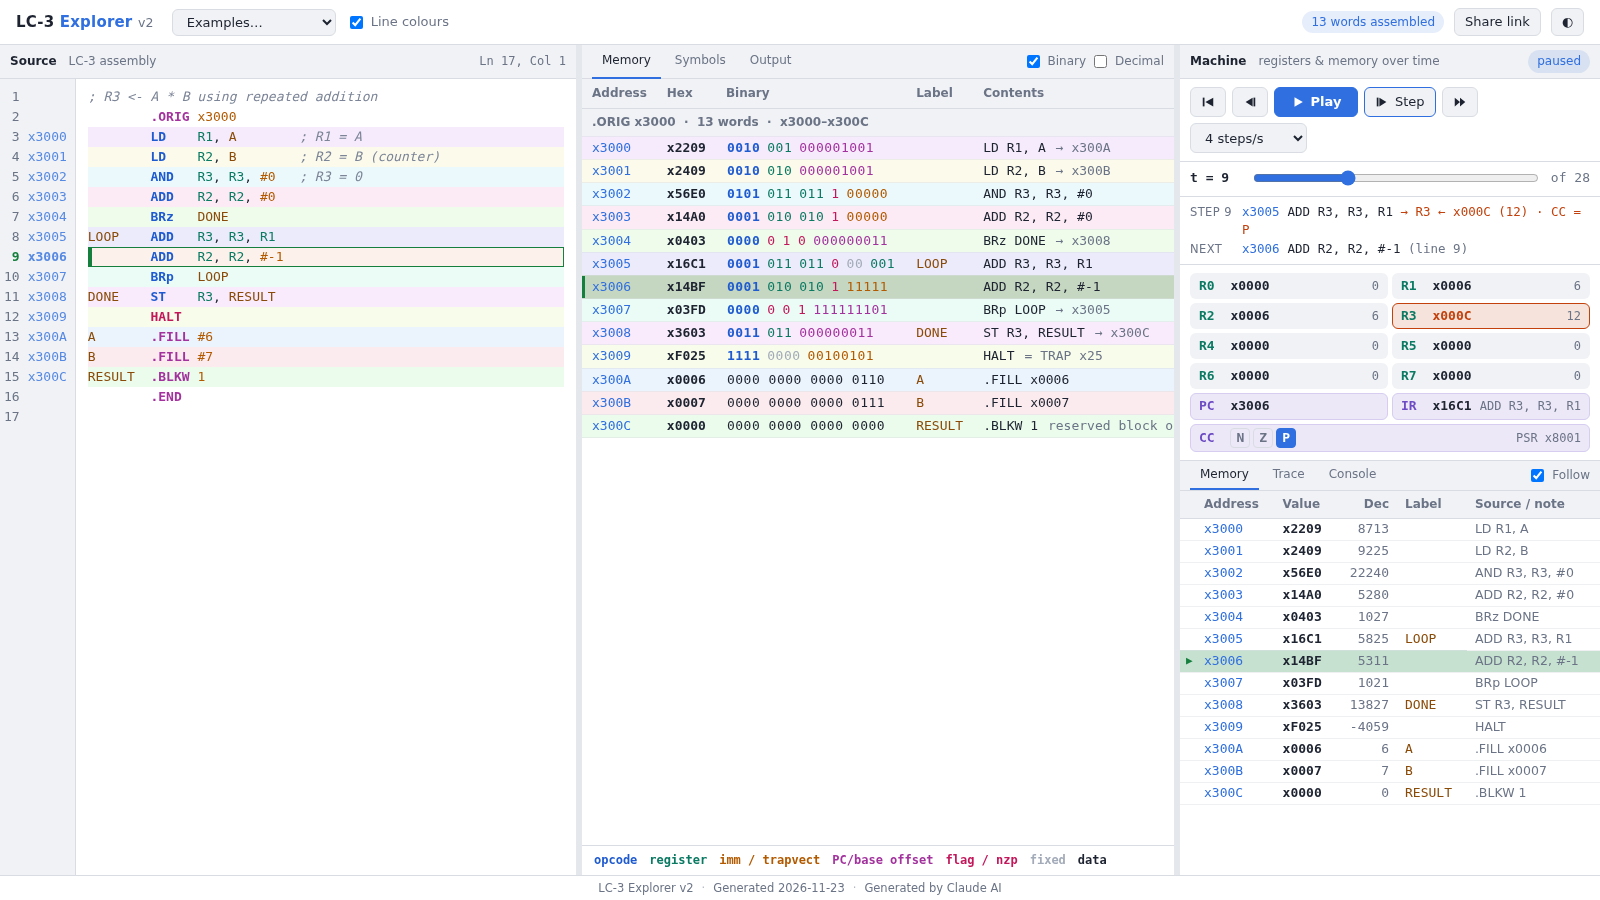
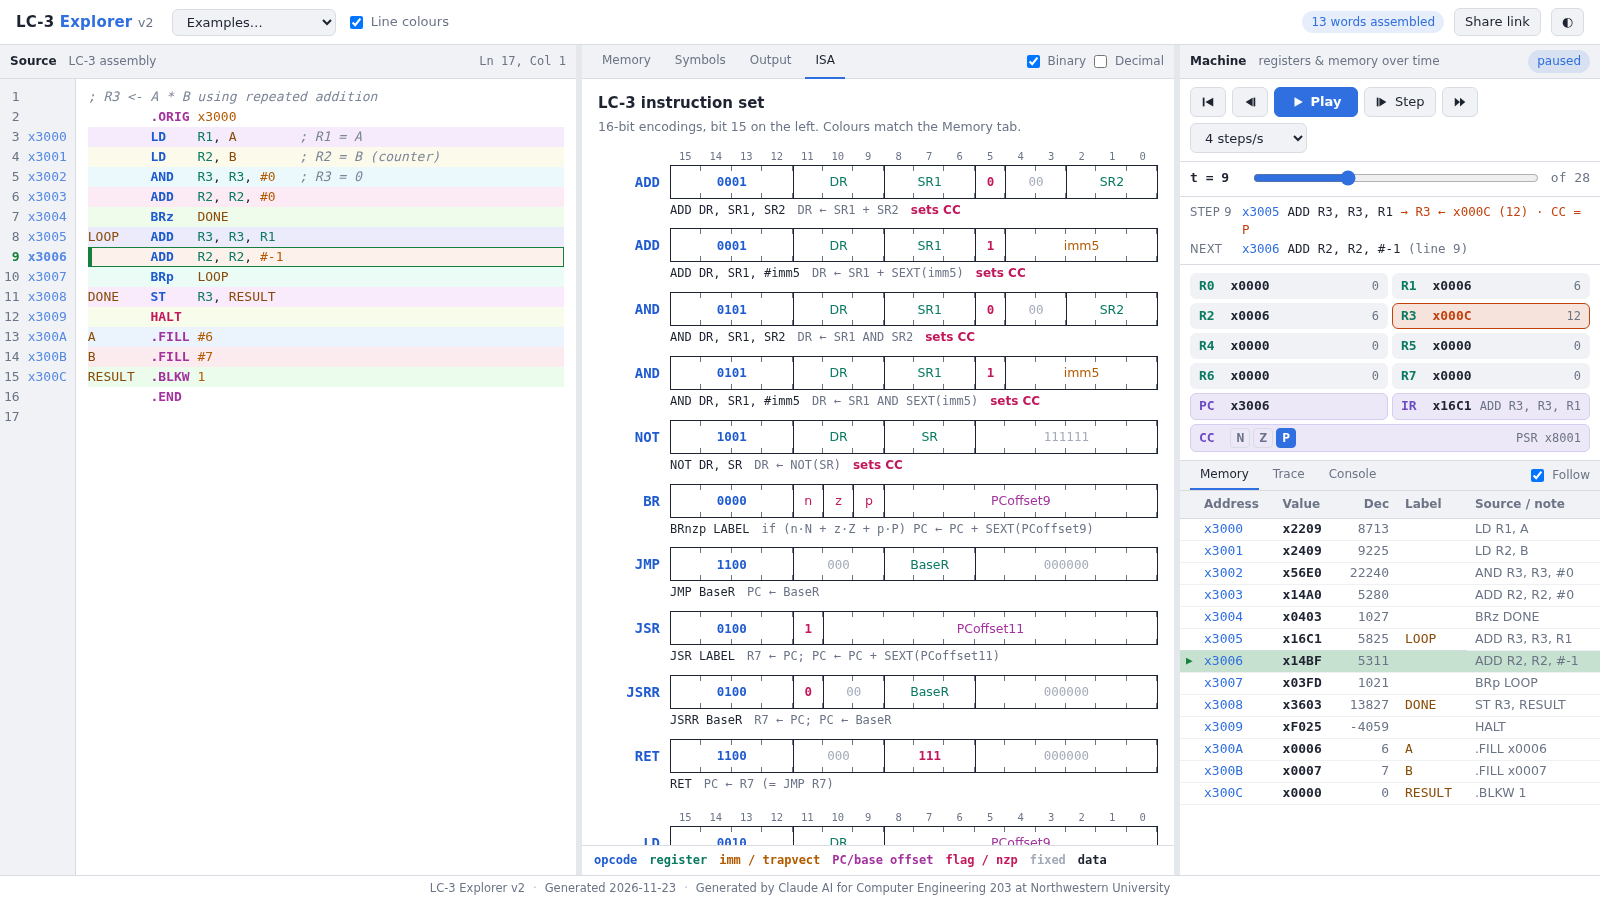
README: new screenshot that shows the ISA tab

diff --git a/README.md b/README.md
@@ -11,7 +11,7 @@ You do not need to download a file to use this link.
 
 > **Note:** Before the page opens, githack shows a warning page with the title "One more step". The warning tells you that githack does not review the content of the page. This is normal. Click **Open the page** to continue.
 
-![LC-3 Explorer. The source panel is on the left, the assembly panel is in the center, and the machine panel is on the right. The program is at step 9.](docs/screenshot.png)
+![LC-3 Explorer. The source panel is on the left. The assembly panel is in the center and shows the ISA tab. The machine panel is on the right. The program is at step 9.](docs/screenshot.png)
 
 ## Function
 
